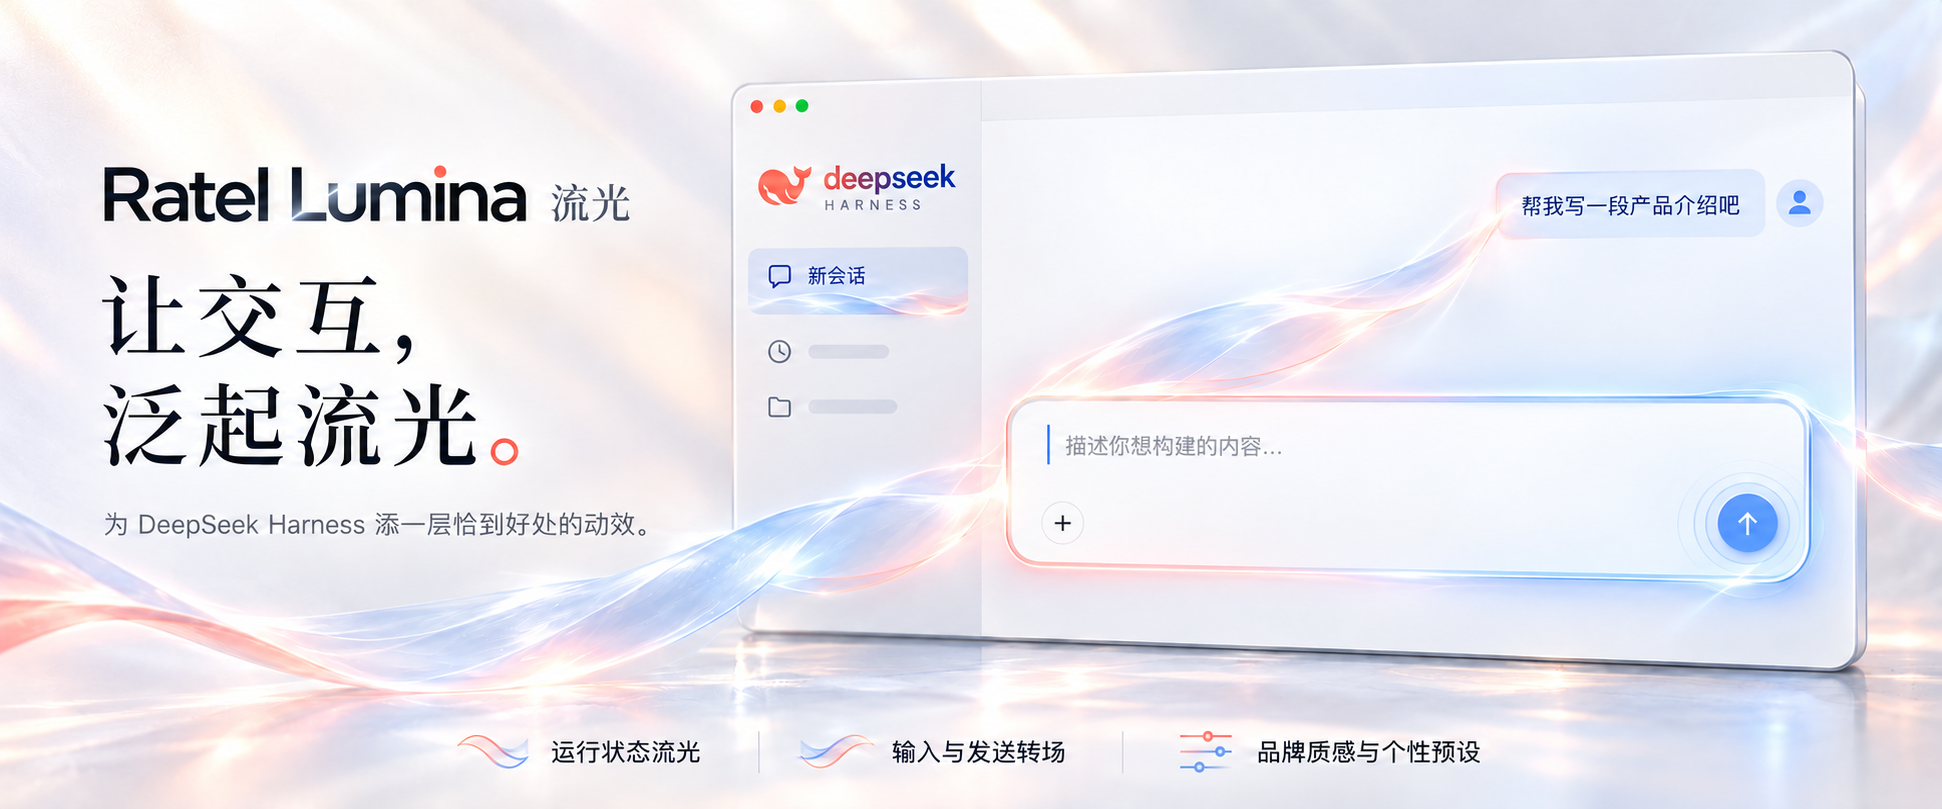
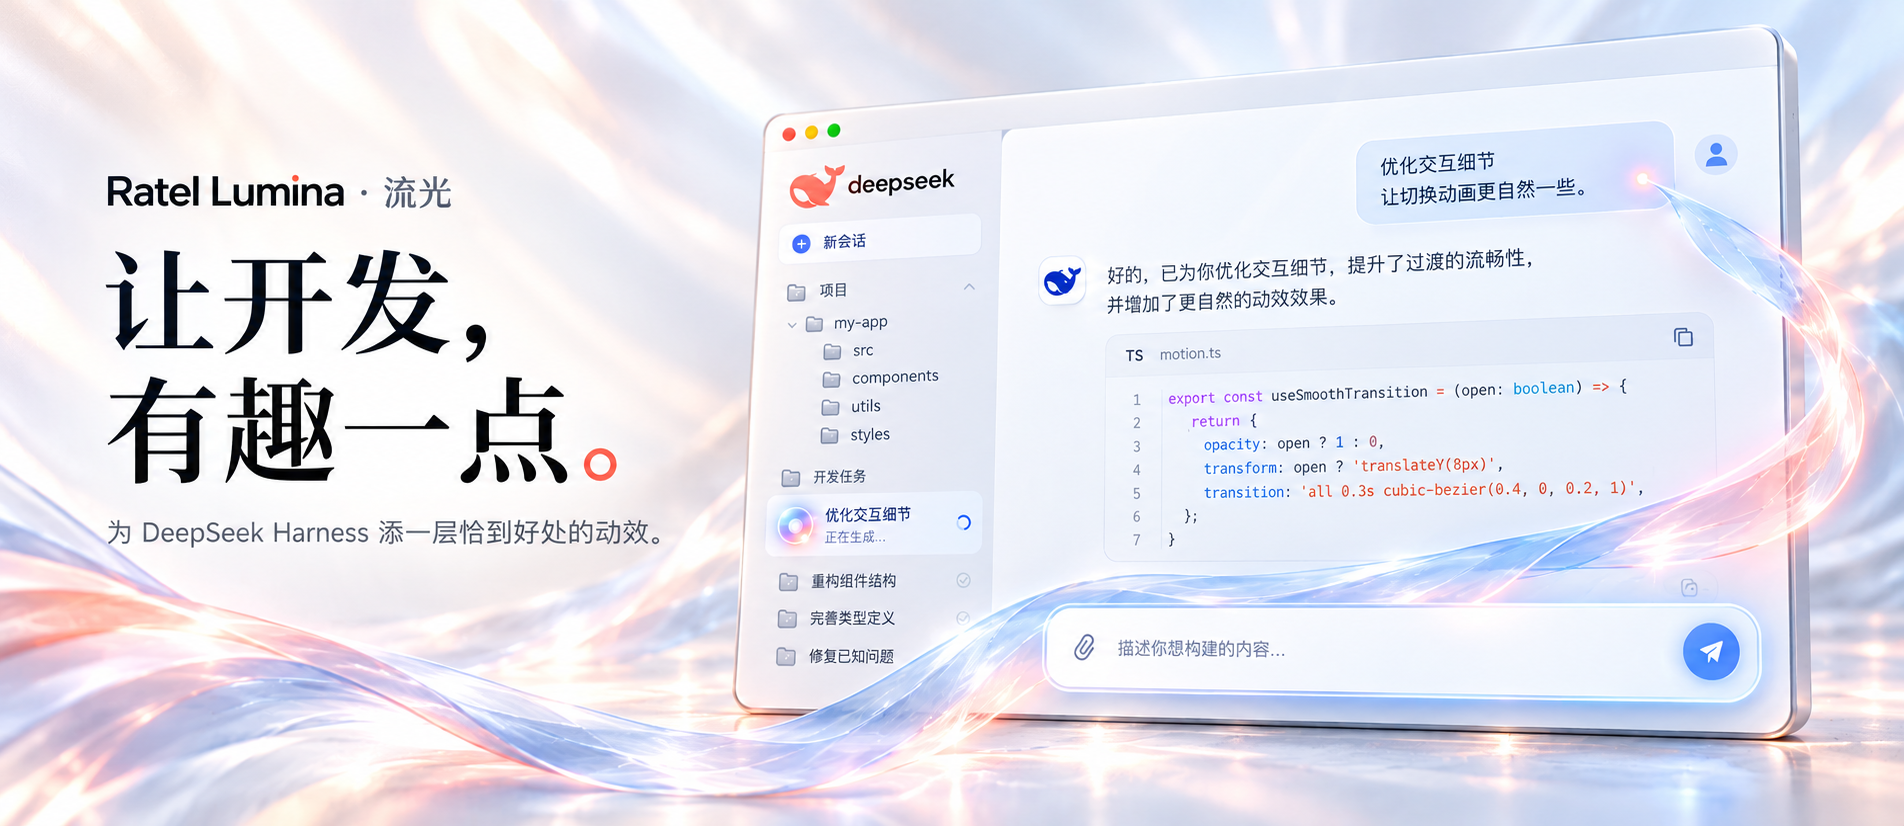
docs(readme): refresh bilingual hero artwork

diff --git a/docs/product/宣传图与丝带流光设计.md b/docs/product/宣传图与丝带流光设计.md
@@ -11,7 +11,7 @@
 
 ## 宣传图审核稿
 
-当前编辑源为 `assets/readme/hero-zh-CN.png` 与 `hero-en.png`，两份 README 分别使用同名 WebP。2026-10-26 已同步英文稿：发送主体与底部图标均为流光，右下角不留小字；中文版沿用此前确认稿。两者均为创意示意，不是客户端截图。
+当前编辑源为 `assets/readme/hero-zh-CN.png` 与 `hero-en.png`，两份 README 分别使用同名 WebP。2026-10-28 已按「让开发，有趣一点」重新制作双语宣传图：以开发会话和代码内容替代泛聊天场景，恢复宽幅光绸贯穿画面的空间层次，并移除底部功能栏。中英文稿共用构图与材质，仅切换文案和界面语言。两者均为创意示意，不是客户端截图。
 
 宣传图仅说明品牌与效果方向。画面的立体透视、地面倒影及光带位置不能作为已发布功能或逐像素还原的承诺；实际交互以当前客户端及各项设计说明为准。
 

diff --git a/README.md b/README.md
@@ -1,4 +1,4 @@
-![Ratel Lumina — Let interaction glow. A concept illustration of subtle motion for DeepSeek Harness.](assets/readme/hero-en.webp)
+![Ratel Lumina — Make development more fun. A concept illustration of subtle motion for DeepSeek Harness.](assets/readme/hero-en.webp)
 
 # Ratel Lumina
 
@@ -6,7 +6,7 @@ English · [中文](README.zh.md)
 
 [![npm version](https://img.shields.io/npm/v/@ratel-works/dsh-lumina?style=flat-square&label=npm)](https://www.npmjs.com/package/@ratel-works/dsh-lumina) [![License: MIT](https://img.shields.io/badge/License-MIT-0969da?style=flat-square)](LICENSE)
 
-**Let interaction glow.**
+**Make development more fun.**
 
 A subtle layer of motion for DeepSeek Harness.
 

diff --git a/README.zh.md b/README.zh.md
@@ -1,4 +1,4 @@
-![Ratel Lumina 流光 — 让交互，泛起流光。DeepSeek Harness 动效创意示意图。](assets/readme/hero-zh-CN.webp)
+![Ratel Lumina 流光 — 让开发，有趣一点。DeepSeek Harness 动效创意示意图。](assets/readme/hero-zh-CN.webp)
 
 # Ratel Lumina · 流光
 
@@ -6,7 +6,7 @@
 
 [![npm version](https://img.shields.io/npm/v/@ratel-works/dsh-lumina?style=flat-square&label=npm)](https://www.npmjs.com/package/@ratel-works/dsh-lumina) [![License: MIT](https://img.shields.io/badge/License-MIT-0969da?style=flat-square)](LICENSE)
 
-**让交互，泛起流光。**
+**让开发，有趣一点。**
 
 为 DeepSeek Harness 添一层恰到好处的动效。
 
